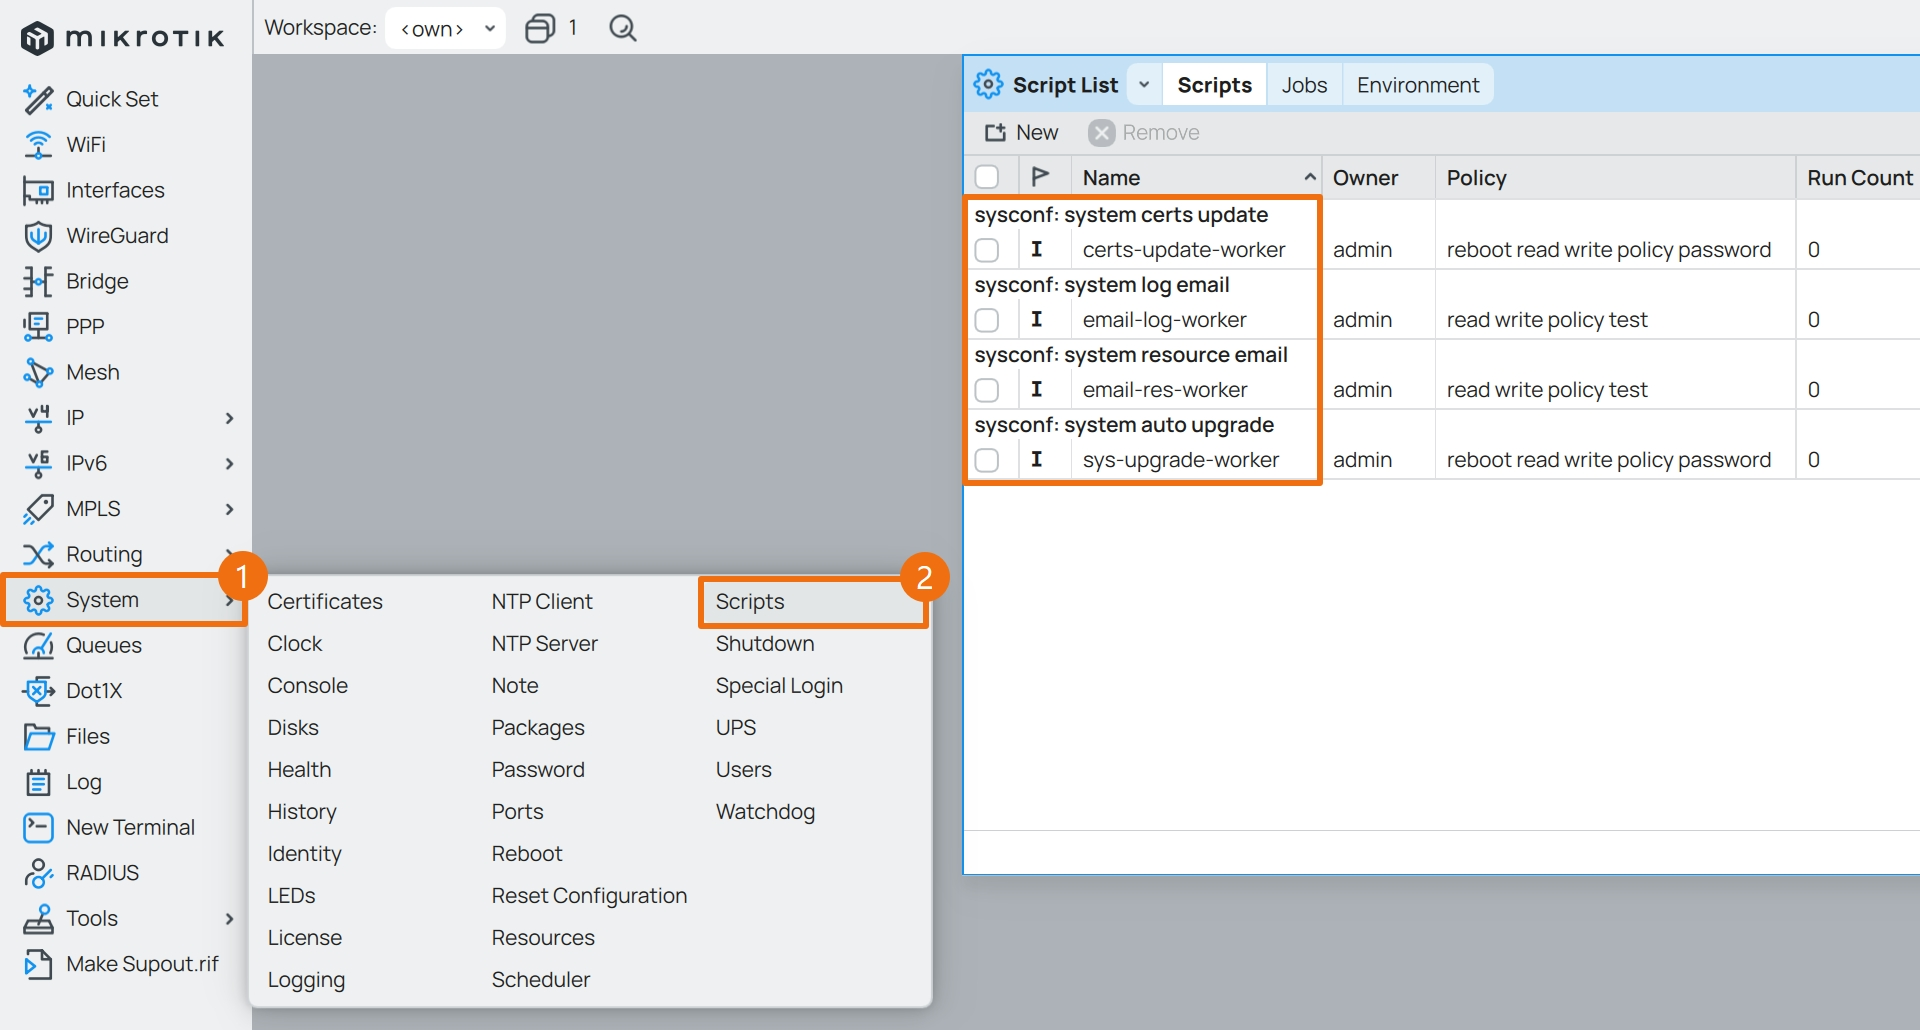
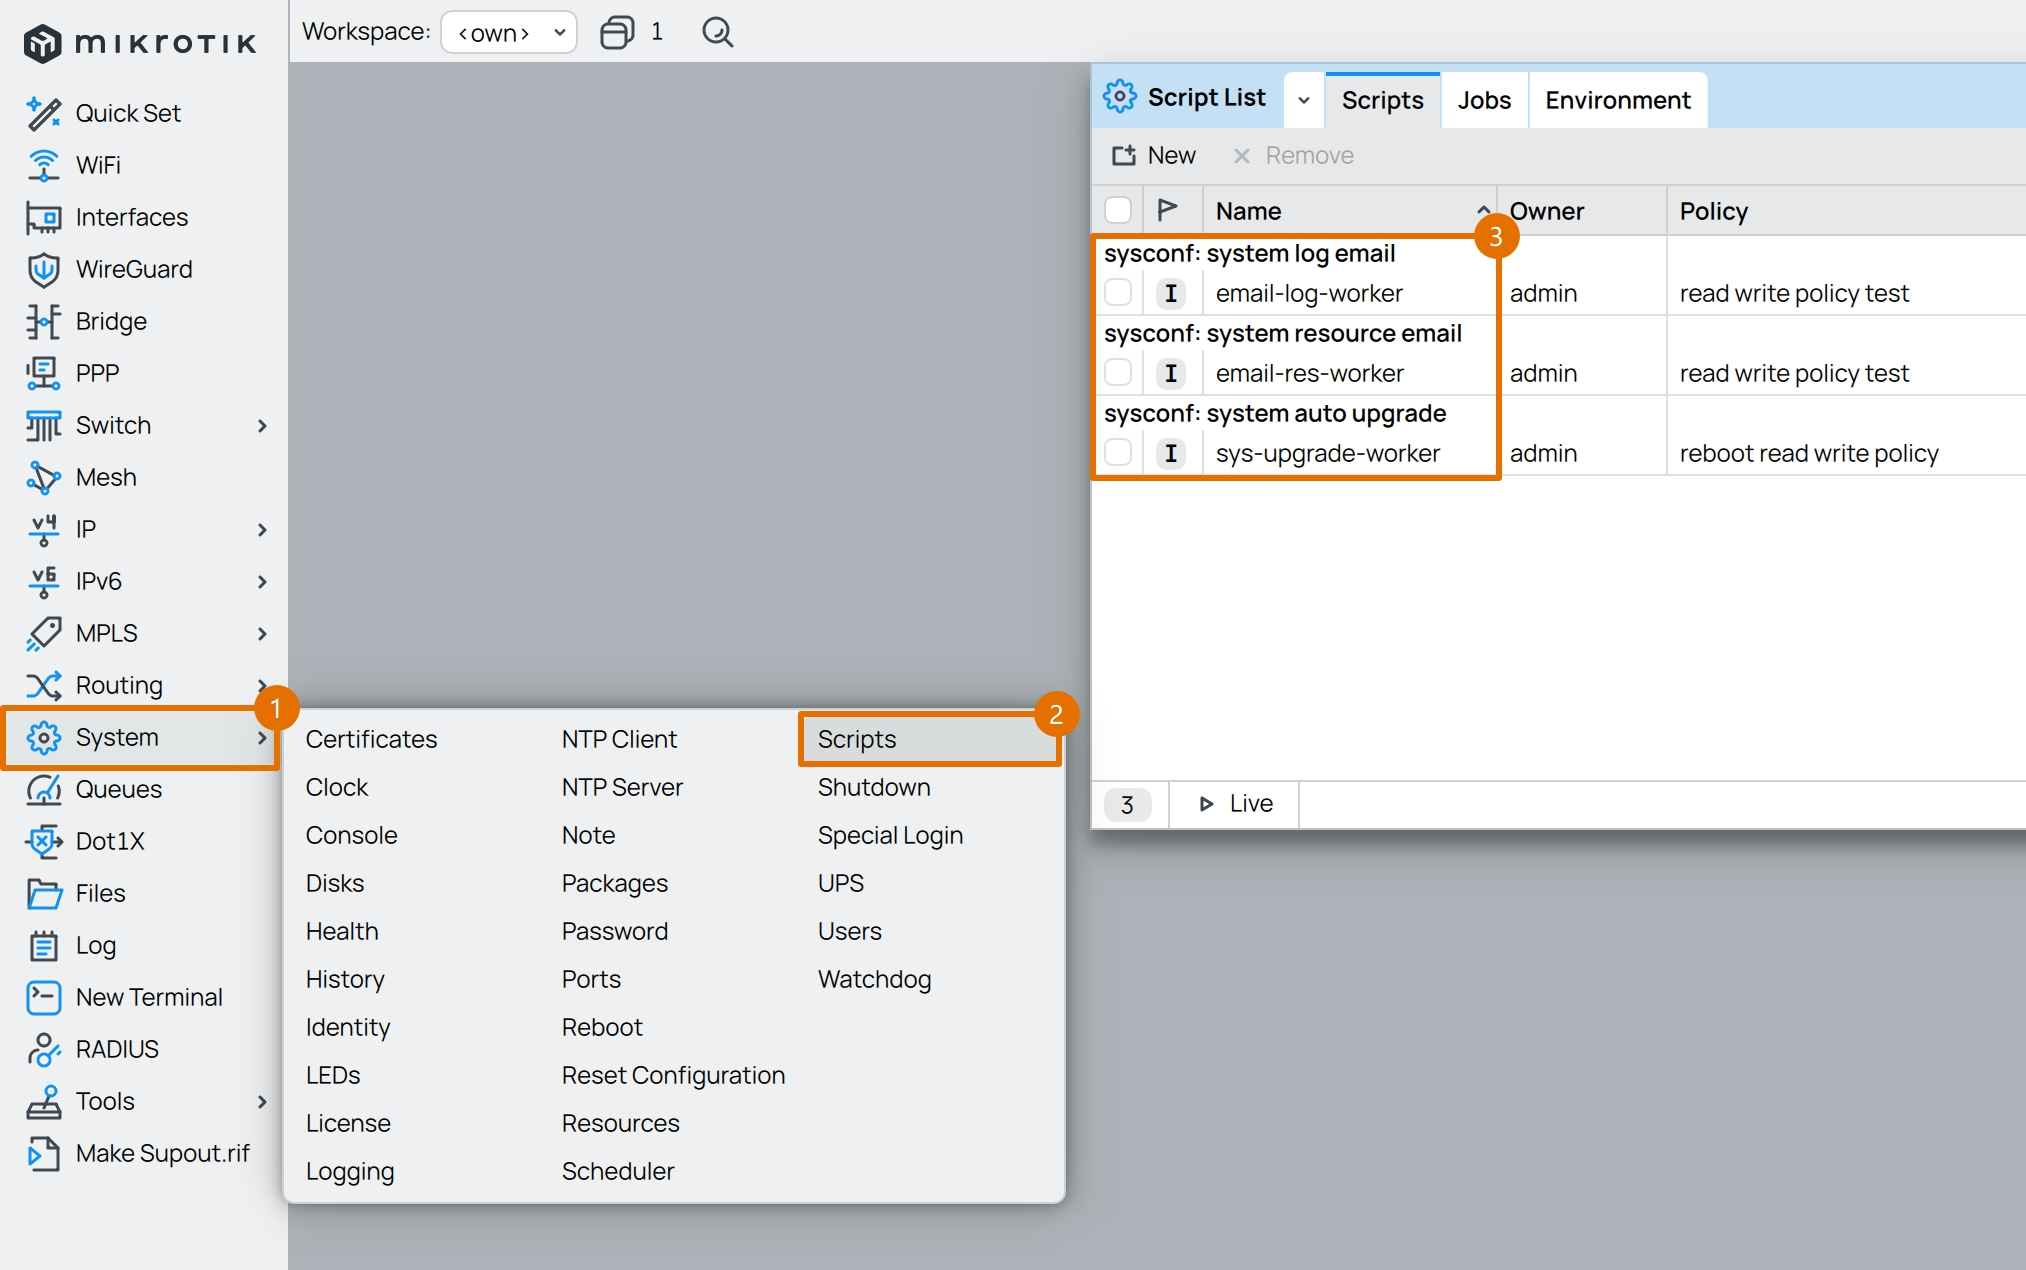
移除第三方证书手动更新的相关内容

Changed region(s): [[0.0, 0.0, 1.0, 1.0], [0.9375, 0.1553, 1.0, 0.1864], [0.8125, 0.1553, 0.875, 0.1864]]

diff --git a/A.命令行配置脚本.md b/A.命令行配置脚本.md
@@ -45,8 +45,6 @@
 |-|-|-|-|
 |[upgrade](./src/upgrade)|[ros_sys_upgrade_worker.conf](./src/upgrade/ros_sys_upgrade_worker.conf)|系统自动更新脚本|官方硬件 / CHR|
 |-|-|-|-|
-|[certificates](./src/certificates)|[ros_certs_update_worker.conf](./src/certificates/ros_certs_update_worker.conf)|根证书自动更新脚本|官方硬件 / CHR|
-|-|-|-|-|
 |[shortcut](./src/shortcut)|[ros_official_init_script.conf](./src/shortcut/ros_official_init_script.conf)|官方硬件自带的初始化脚本，仅供研究|官方硬件|
 ||[ros_shortcut.native.dhcp.basic.conf](./src/shortcut/ros_shortcut.native.dhcp.basic.conf)|官方硬件配置脚本，DHCP 模式，初级防火墙，暂不支持配置 IPv6 |官方硬件|
 ||[ros_shortcut.native.dhcp.advanced.conf](./src/shortcut/ros_shortcut.native.dhcp.advanced.conf)|与前者类似，高级防火墙，Fq-CoDel QoS|官方硬件|
